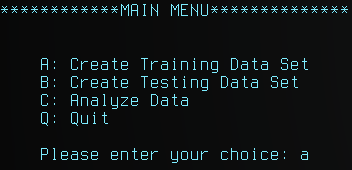
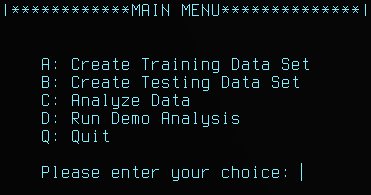
updated README

diff --git a/README.md b/README.md
@@ -82,8 +82,8 @@ $ <code>cd sentiment_analysis</code>
  4. Execute the script to access the tool's main menu:  
  (venv)$ <code>python tweetminer.py</code>   
  
- 5. Select an option from the menu to create either a training or testing data set, analyze the data, or exit the
-  program:  
+ 5. Select an option from the menu to create either a training or testing data set, analyze the data, run a demo
+  analysis, or exit the program:  
  ![alt text](\.misc/main_menu.PNG "main menu")  
  <br></br>  
  In this example, the live Twitter stream will be accessed, and a limit of 100 (more is always better, this is just
@@ -108,7 +108,9 @@ $ <code>cd sentiment_analysis</code>
    ![alt text](\.misc/create_testing.PNG "testing data")  
    <br></br>  
  
- 8. Analyze and test accuracy. (***In Progress...***)
+ 8. Analyze and test accuracy. Option "C" from the main menu. When all 4 required files have been created (2-training
+  and 2-testing), the machine learning algorithm can be run to test the accuracy of the sentiment analysis.  
+  ![alt text](\.misc/analysis.PNG "analyzing data")
  
  <br></br>  
  <br></br>    
